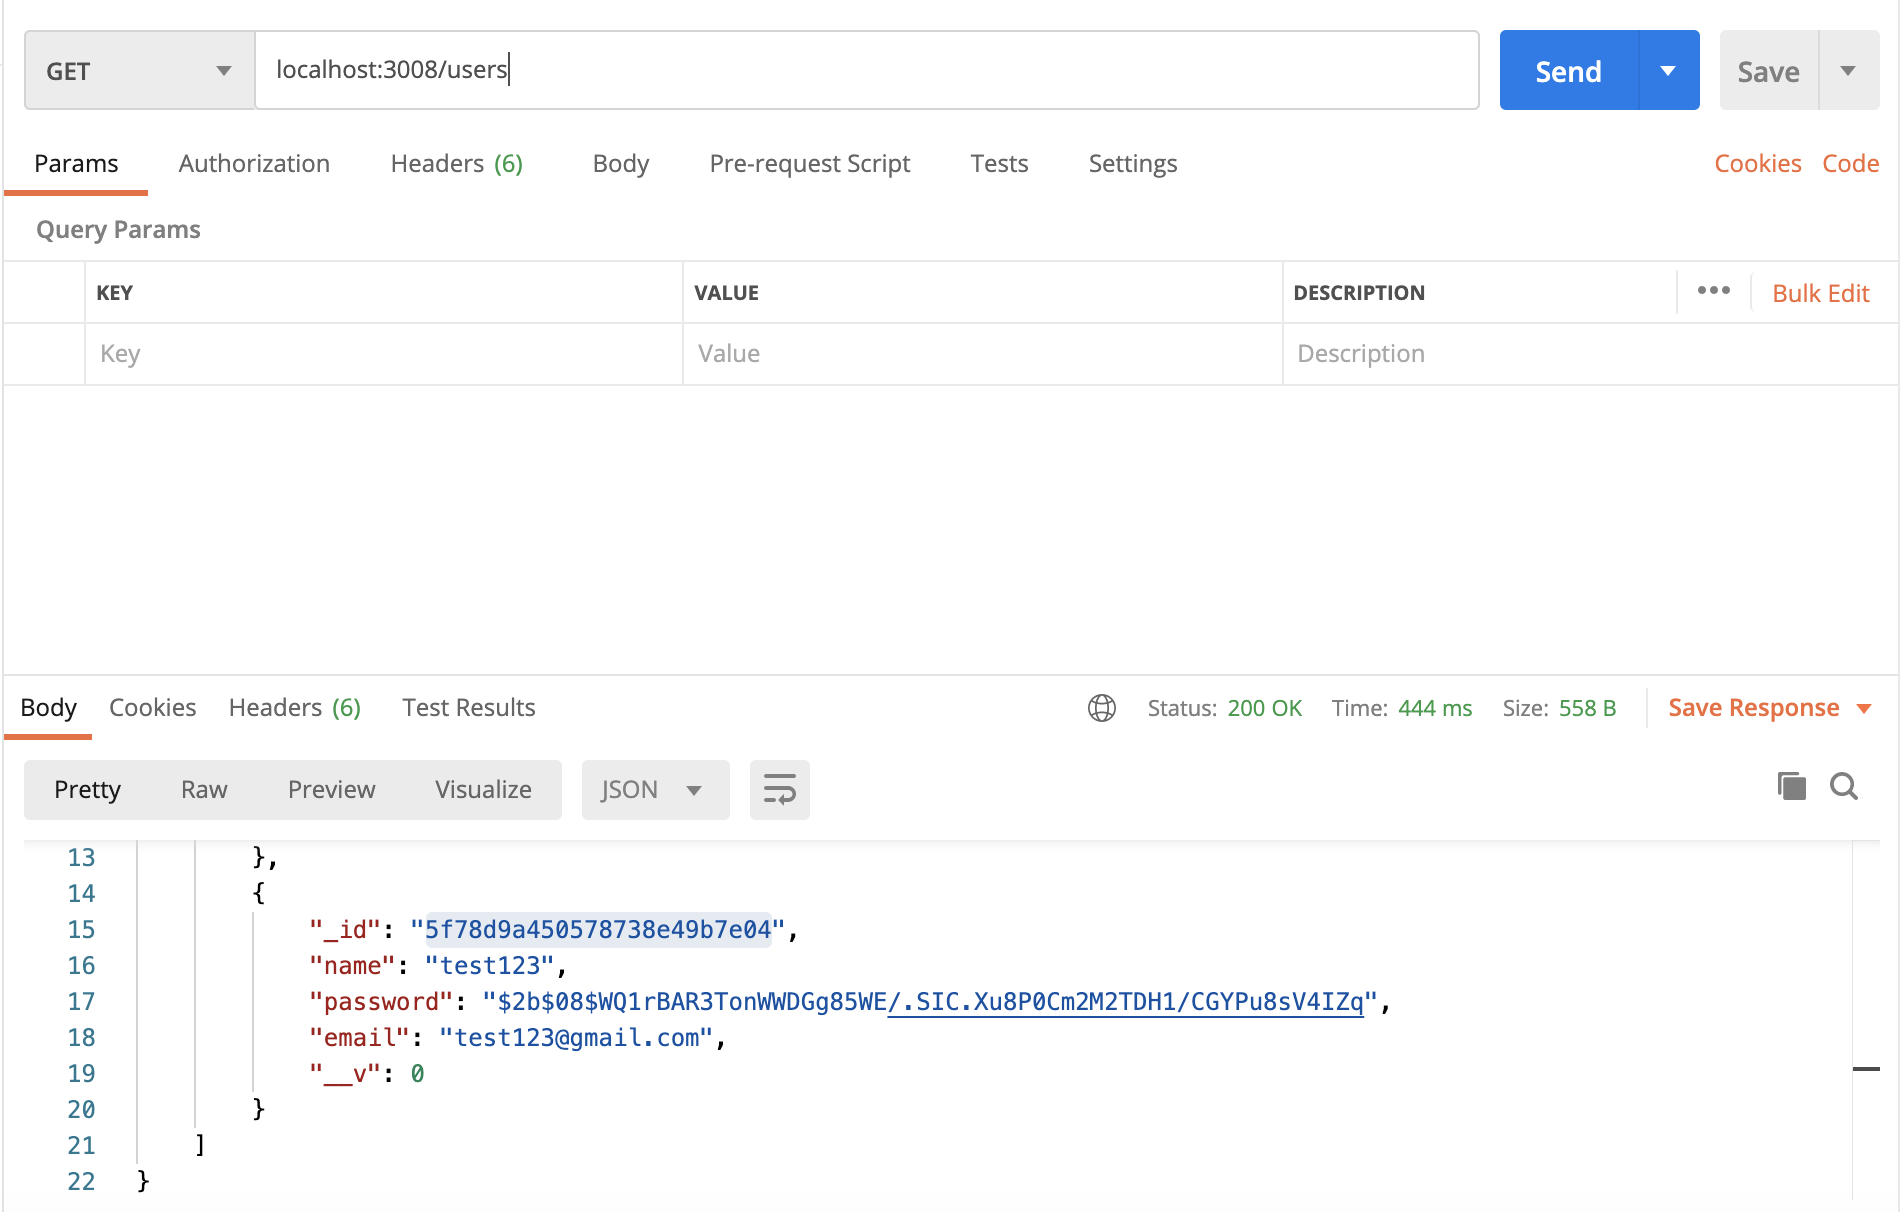
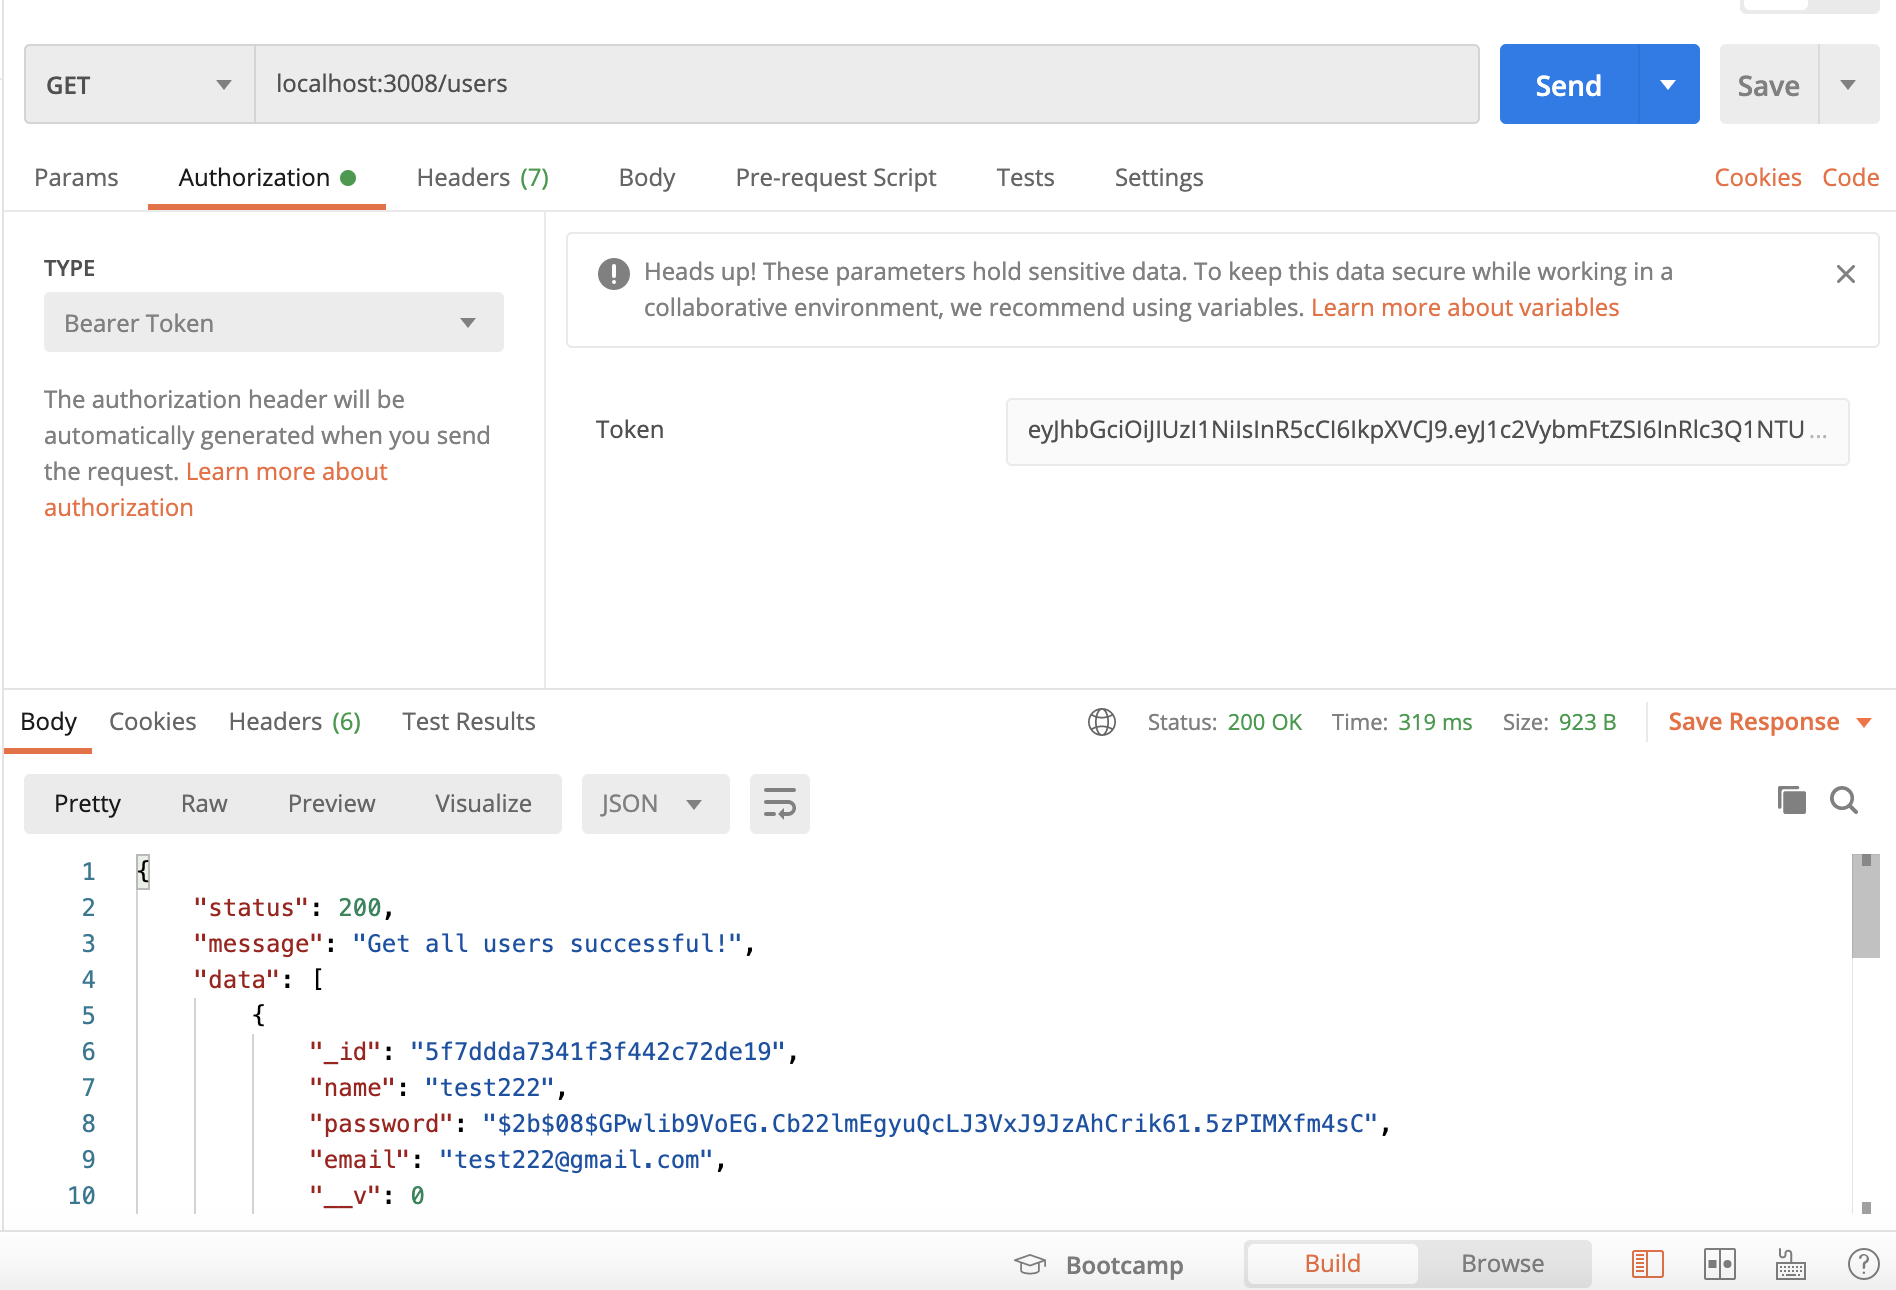
write READ.ME

diff --git a/src/auth/auth.service.ts b/src/auth/auth.service.ts
@@ -13,8 +13,8 @@ export class AuthService {
 
   async validateUser(username: string, pass: string): Promise<any> {
     const user = await this.usersService.getOneUserByName(username);
-    const match = await this.comparePassword(pass, user.password);
-    if (user && match) {
+    // const match = await this.comparePassword(pass, user.password);
+    if (user && bcrypt.compareSync(pass, user.password)) {
       const { password, ...result } = user;
       return result;
     }
@@ -29,8 +29,8 @@ export class AuthService {
     };
   }
 
-  private async comparePassword(enteredPassword, dbPassword) {
-    const match = await bcrypt.compare(enteredPassword, dbPassword);
-    return match;
-}
+  // private async comparePassword(enteredPassword, dbPassword) {
+  //  const match = await bcrypt.compare(enteredPassword, dbPassword);
+  //  return match;
+  // }
 }

diff --git a/src/auth/local.strategy.ts b/src/auth/local.strategy.ts
@@ -2,6 +2,7 @@ import { Strategy } from "passport-local";
 import { PassportStrategy } from "@nestjs/passport";
 import { Injectable, UnauthorizedException } from "@nestjs/common";
 import { ContextIdFactory, ModuleRef } from "@nestjs/core";
+import { Request } from "express";
 
 import { AuthService } from "./auth.service";
 

diff --git a/README.md b/README.md
@@ -2,7 +2,7 @@
 
 ## Description
 
-Create users service by using NestJS framework (a progressive Node.js framework) with Typescript language.
+Create users service by using NestJS framework (a progressive Node.js framework) with Typescript language. And using Passport and JWT for authentication.
 
 ## Functions
 
@@ -10,11 +10,17 @@ Provide Restful Api for handling user-related functions. Such as create user (re
 
 For user register, user needs provide an unique username and a password between 6 and 20 characters. Also, user needs to make sure their password and confrim password to be same. After creating, database will only store one hashed password.
 
+For authentication part, users will start by authenticating with a username and password. Once authenticated, the server will issue a JWT that can be sent as a bearer token in an authorization header on subsequent requests to prove authentication. Other API routes (except login and register; for login, we use passport-local) are protected based on the presence of a valid JWT as a bearer token. The bearer token is only validated for 2 minutes. After 2 minutes, users need to get another token for future useage. (can be longer)
+
 ### Postman examples
 
 - /register
 
 ![register](/pic/register.png)
+
+- /login
+
+![login](/pic/login.png)
 
 - /
 
@@ -24,44 +30,24 @@ For user register, user needs provide an unique username and a password between 
 
 ![getoneuser](/pic/oneuser.png)
 
-![deleteoneuser](/pic/deleteonuser.png)
+- /:id **after 2 minutes, the baerer token was invalidated**
 
-![updateoneuser](/pic/updateoneuser.png)
+![deleteoneuser](/pic/deleteonuser.png)
 
 ## Run
 
-- **Install Typescript:**
+- **Install Yarn:**
 
 ```bash
-$ npm install typescript --save-dev
-```
-
-- **Install NestJS:**
-
-```bash
-$ npm i -g @nestjs/cli
-```
-
-- **Install packages:**
-
-```bash
-  $ npm install class-validator --save
-
-  $ npm install bcrypt
-
-  $ npm install --save @types/bcrypt
-
-  $ npm install mongoose --save
-
-  $ npm install class-transformer
+$ npm install -g yarn
 ```
 
 - **Start:**
 
 ```bash
-$ nest start --watch
+$ yarn install // install packages written in package.json file
 
-$ https://localhost/3008/...
+$ yarn run start:dev (run)
 ```
 
 ## NestJS
@@ -76,4 +62,4 @@ Under the hood, Nest makes use of Express, but also, provides compatibility with
 
 ## To Do
 
-Need to work with authentication, and connect with apigateway.
+Need to connect with apigateway, and have many-to-many relationship to community.
